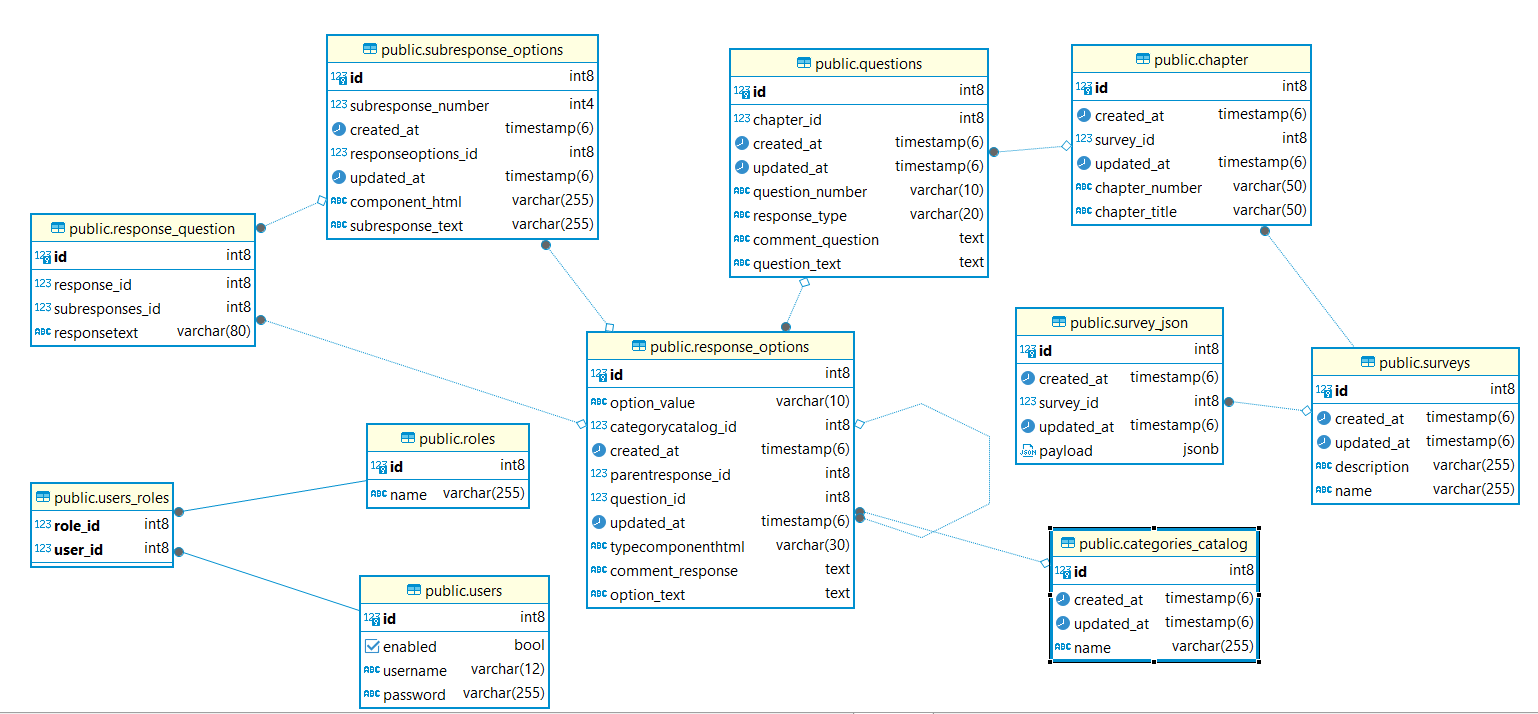
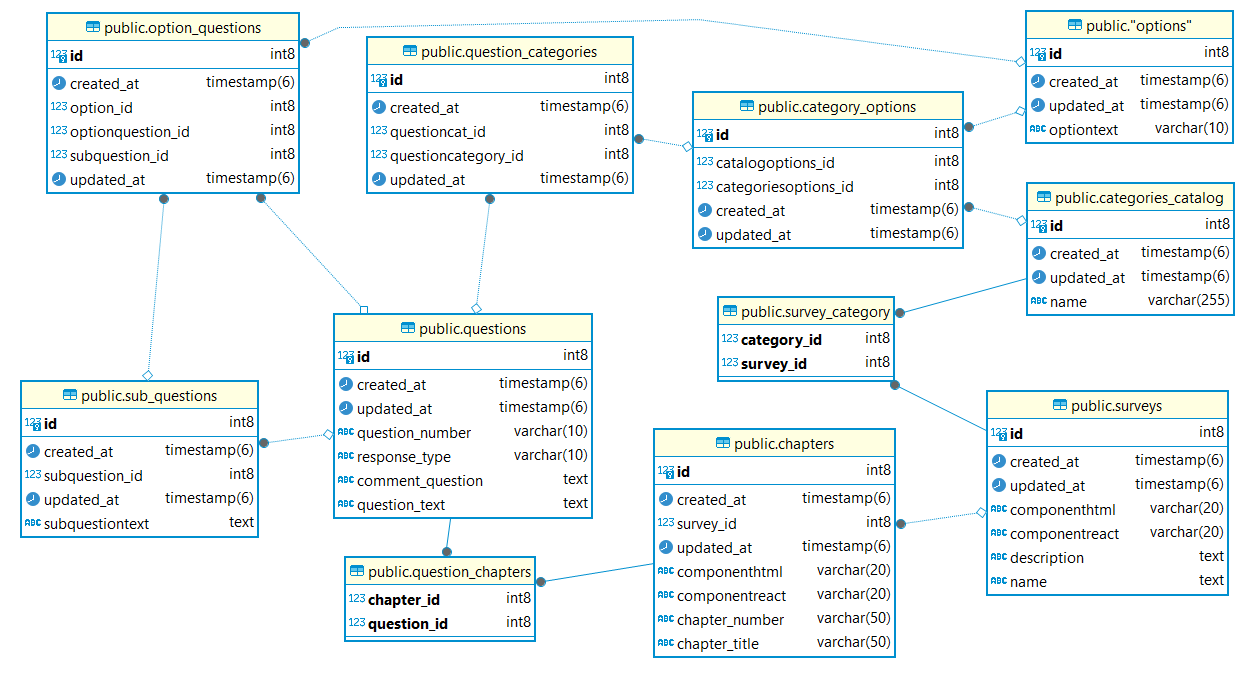
v1.0.9 - Implement new database

Changed region(s): [[0.0, 0.0, 0.9905, 1.0]]

diff --git a/src/main/java/com/survey/survey/category_options/domain/entities/CategoryOptions.java b/src/main/java/com/survey/survey/category_options/domain/entities/CategoryOptions.java
@@ -1,36 +1,41 @@
-package com.survey.survey.catalog.domain.entities;
+package com.survey.survey.category_options.domain.entities;
 
 import com.survey.survey.at.domain.entities.CreatedUpdatedTime;
+import com.survey.survey.catalog.domain.entities.Catalog;
 
-import jakarta.persistence.Column;
 import jakarta.persistence.Embedded;
 import jakarta.persistence.Entity;
 import jakarta.persistence.GeneratedValue;
 import jakarta.persistence.GenerationType;
 import jakarta.persistence.Id;
+import jakarta.persistence.JoinColumn;
+import jakarta.persistence.ManyToOne;
 import jakarta.persistence.Table;
 import lombok.AllArgsConstructor;
 import lombok.Getter;
 import lombok.NoArgsConstructor;
 import lombok.Setter;
-import lombok.ToString;
 
+@Entity
 @Getter
 @Setter
-@ToString
-@NoArgsConstructor
 @AllArgsConstructor
-@Entity
-@Table(name = "categoriesCatalog")
-public class Catalog {
+@NoArgsConstructor
+@Table(name = "categoryOptions")
+public class CategoryOptions {
 
     @Id
     @GeneratedValue(strategy = GenerationType.IDENTITY)
     private Long id;
 
+    @ManyToOne
+    @JoinColumn(name = "catalogoptionsId")
+    private Catalog catalog;
+
+    @ManyToOne
+    @JoinColumn(name = "categoriesoptionsId")
+    private Options option;
+
     @Embedded
     CreatedUpdatedTime createdUpdatedTime;
-
-    @Column(columnDefinition = "VARCHAR(255)", nullable = false)
-    private String name;
 }

diff --git a/src/main/java/com/survey/survey/subresponse_options/domain/entities/SubResponseOptions.java b/src/main/java/com/survey/survey/subresponse_options/domain/entities/SubResponseOptions.java
@@ -1,7 +1,7 @@
 package com.survey.survey.subresponse_options.domain.entities;
 
 import com.survey.survey.at.domain.entities.CreatedUpdatedTime;
-import com.survey.survey.response_options.domain.entities.ResponseOptions;
+import com.survey.survey.category_options.domain.entities.CategoryOptions;
 
 import jakarta.persistence.Column;
 import jakarta.persistence.Embedded;
@@ -36,7 +36,7 @@ public class SubResponseOptions {
     
     @ManyToOne
     @JoinColumn(name = "responseoptions_id", nullable = false)
-    private ResponseOptions responseOptions;
+    private CategoryOptions responseOptions;
 
     @Column(columnDefinition = "VARCHAR(255)", nullable = false)
     private String component_html;

diff --git a/src/main/java/com/survey/survey/response_question/domain/entities/ResponseQuestion.java b/src/main/java/com/survey/survey/response_question/domain/entities/ResponseQuestion.java
@@ -1,6 +1,6 @@
 package com.survey.survey.response_question.domain.entities;
 
-import com.survey.survey.response_options.domain.entities.ResponseOptions;
+import com.survey.survey.category_options.domain.entities.CategoryOptions;
 import com.survey.survey.subresponse_options.domain.entities.SubResponseOptions;
 
 import jakarta.persistence.Column;
@@ -33,7 +33,7 @@ public class ResponseQuestion {
 
     @ManyToOne
     @JoinColumn(name = "response_id", nullable = false)
-    private ResponseOptions responseOptions;
+    private CategoryOptions responseOptions;
 
     @Column(columnDefinition = "VARCHAR(80)", nullable = false)
     private String responsetext;
